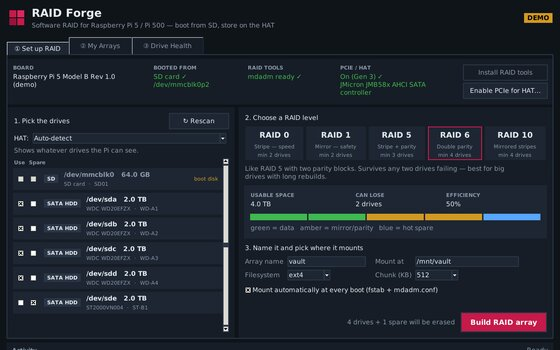
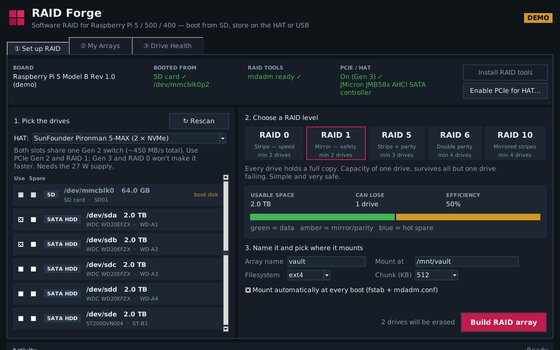
RAID Forge: new menu thumbnail and README
Claude-Session: https://claude.ai/code/session_013eymtRZWHTpyK22CNk1Fbr

diff --git a/apps/raidforge/README.md b/apps/raidforge/README.md
@@ -3,12 +3,21 @@
 Point-and-click software RAID for the Raspberry Pi 5, Pi 500 and Pi 400. Boot Pi OS from the SD card,
 put your drives on a HAT, and build a RAID 0, 1, 5, 6 or 10 array without touching the terminal.
 
+![RAID Forge: RAID 1 on a Pironman 5-MAX](docs/setup.png)
+
+| | |
+|:---:|:---:|
+| ![My Arrays](docs/my-arrays.png) | ![Move system to RAID](docs/move-system-to-raid.png) |
+| **My Arrays**: live rebuild progress, drive swaps, scrubs | **Move system to RAID**: the SD card only starts the Pi |
+
 ## Install
 ```bash
 git clone https://github.com/hardwaremack-prog/raidforge
 cd raidforge
 bash install.sh
 ```
+Or download the zip, unzip it and run `bash install.sh` inside the `raidforge` folder.
+
 Then open **Menu → System Tools → RAID Forge**. Use **RAID Forge (Demo)** first to try it with fake drives.
 
 ## What it does
